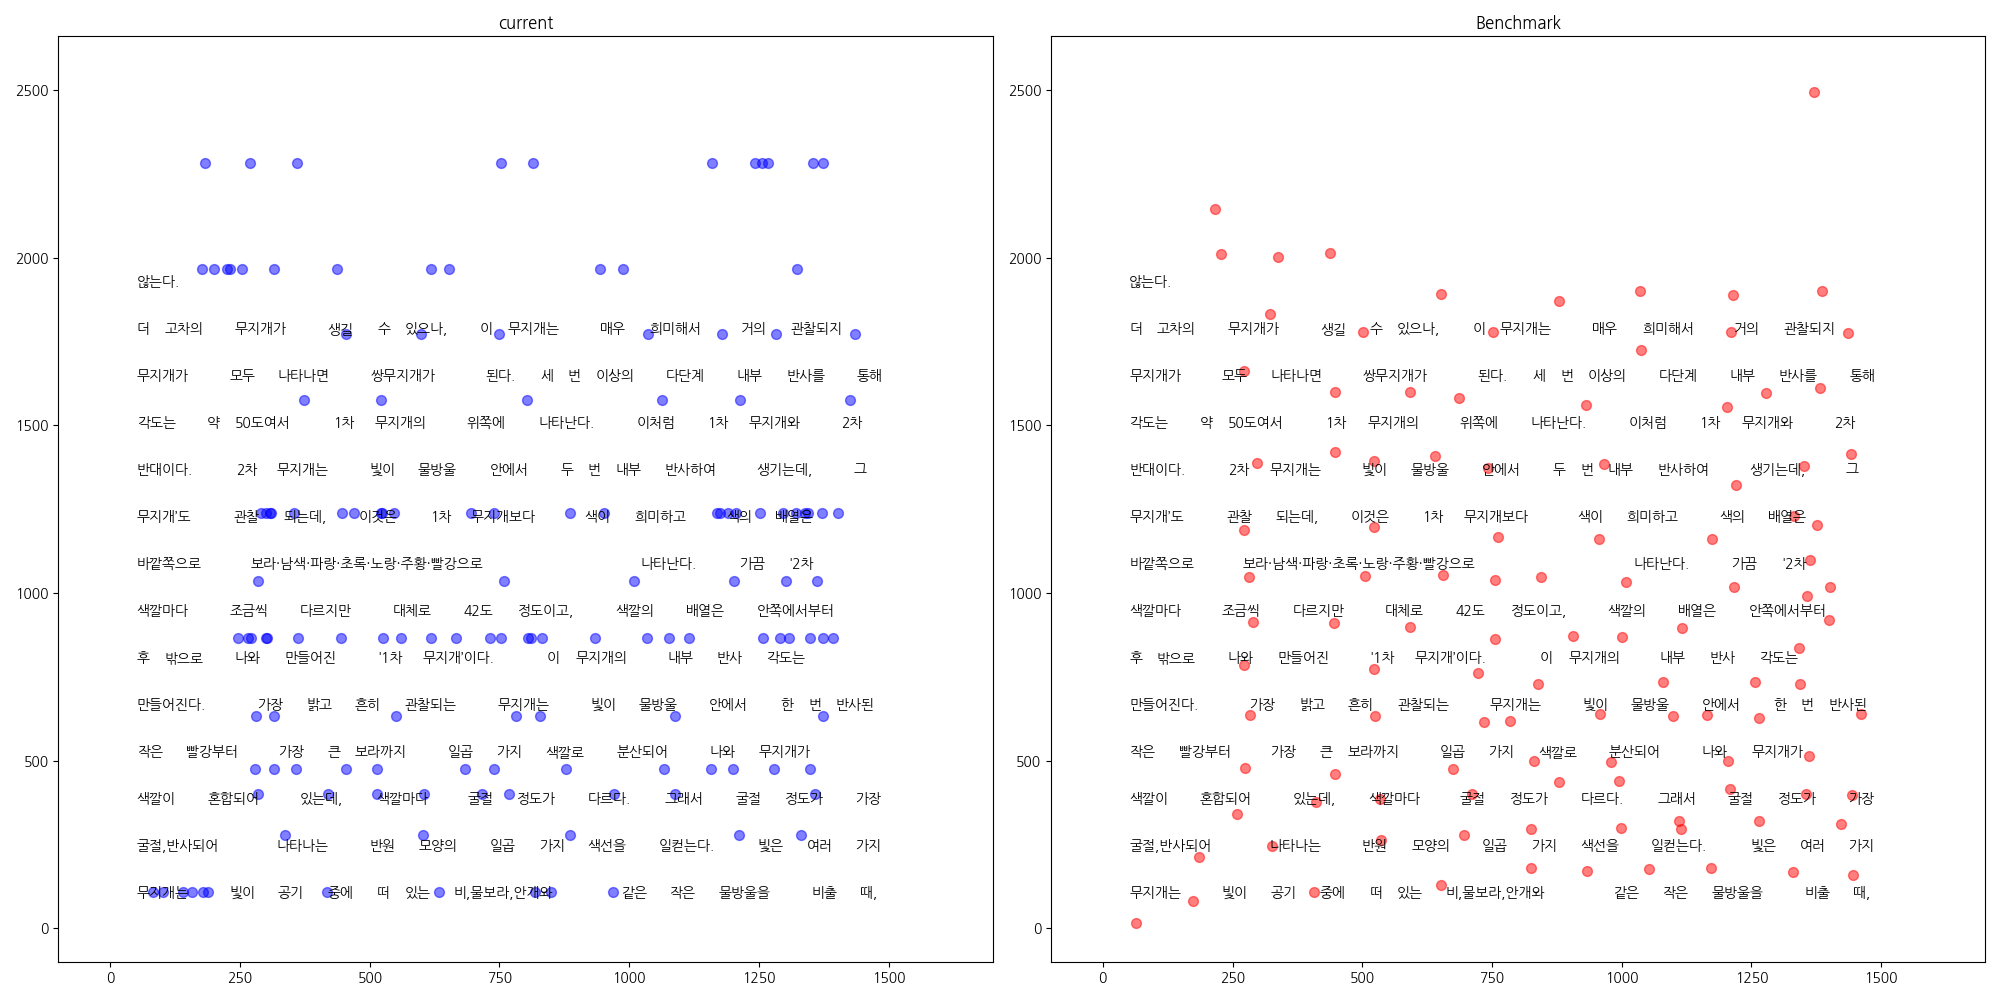
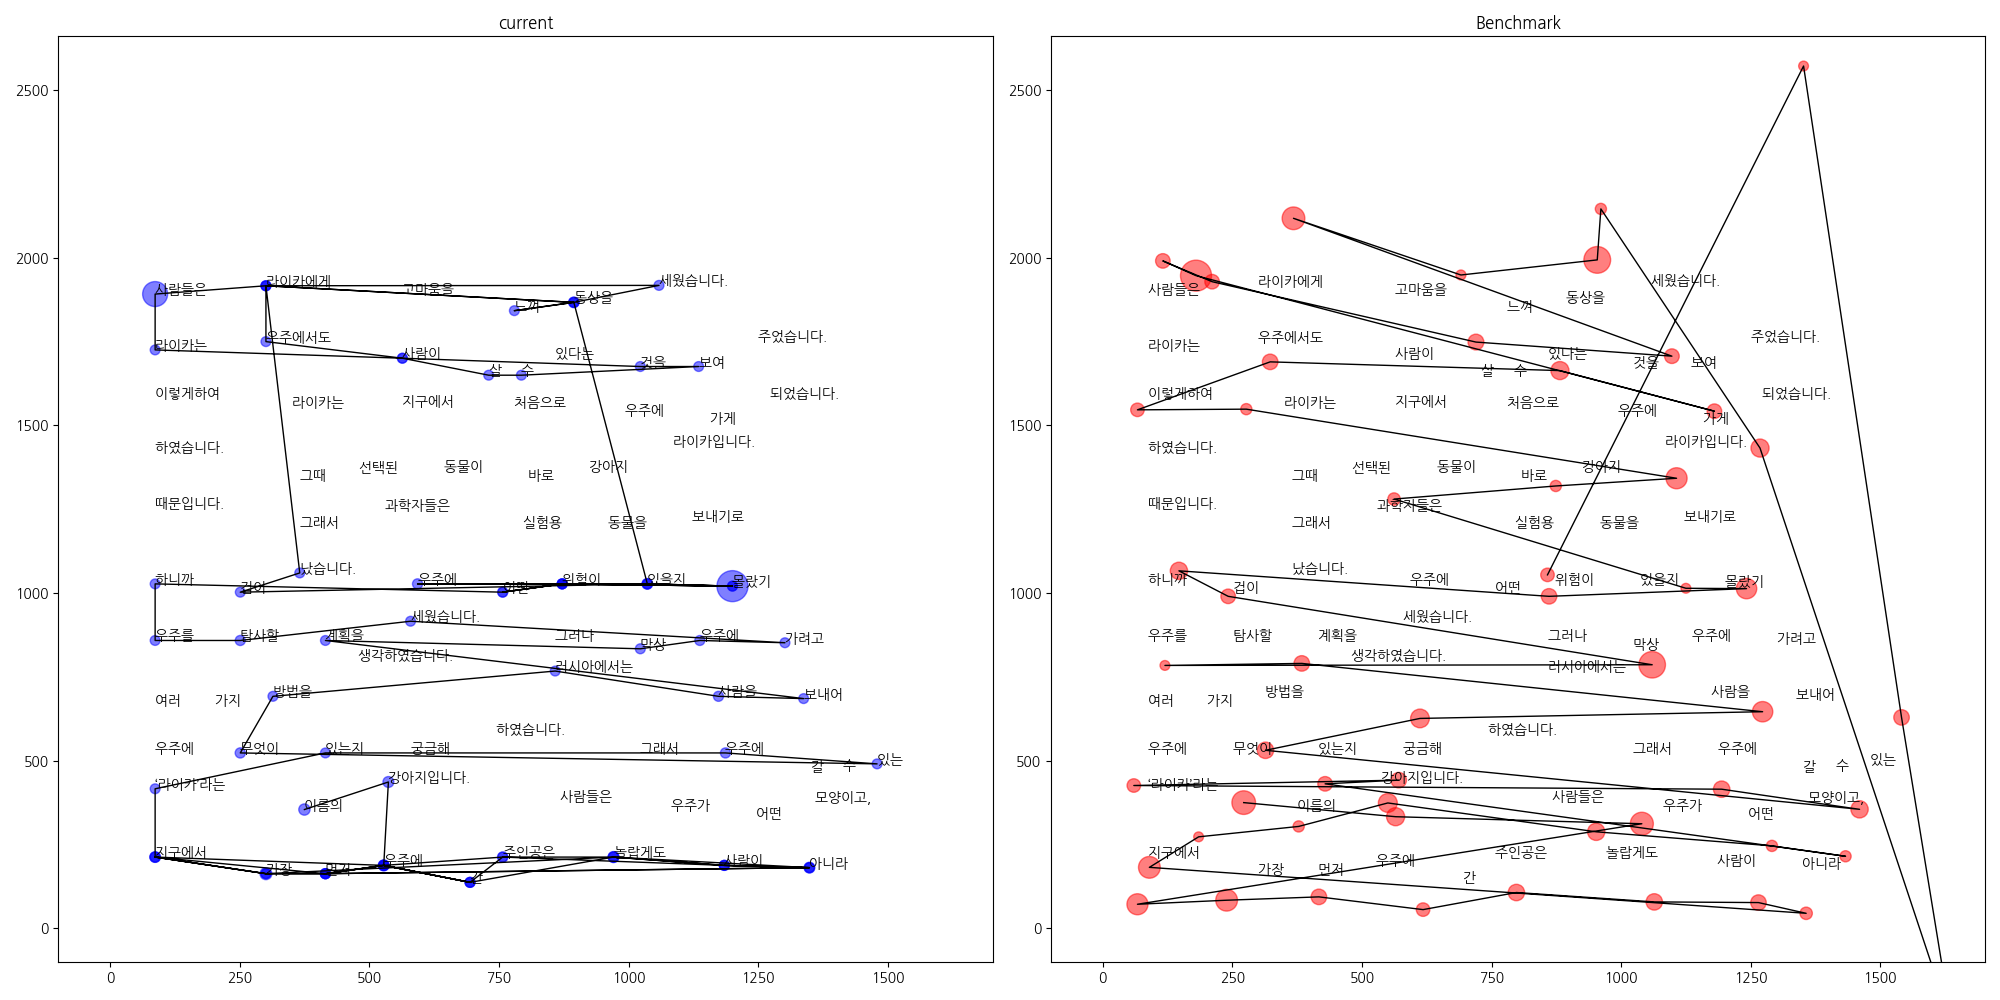
Add prototype of lineAllo

diff --git a/utils/allocation.py b/utils/allocation.py
@@ -26,25 +26,28 @@ from utils.data import CorrectedFixation
 from collections import defaultdict
 import params
 import env
+from sklearn.metrics import pairwise_distances
 
 
-def rf_to_cf(rf):
-    config = {
-        "timestamp": 0,
-        "line": 0,
-        "order": 0,
-        "x": 0,
-        "y": 0
-    }
-    cf = CorrectedFixation(config)
-    return cf
+# ver.0.1: 전체 크기  조정
+def scaling(rfs):
+    coors = [[rf.x, rf.y] for rf in rfs]
+    coors = np.array(coors)
+    x_min, y_min = np.min(coors, axis=0)
+
+    for rf in rfs:
+        rf.x -= x_min
+        rf.y -= y_min
+    return rfs
 
 
+# ver.0.1: backward movement 감지 (hyper parameter issue)
 def classify_backward(rfs: list):
     xs = np.array([rf.x for rf in rfs])
     delta_xs = xs[:-1] - xs[1:]
     delta_xs = np.concatenate((delta_xs, [0]))
 
+    # NOTE: hyper parameter
     bward_thr = params.backward_threshold
     is_bwards = delta_xs < bward_thr
 
@@ -67,18 +70,102 @@ def classify_backward(rfs: list):
     return rfs
 
 
+# ver.0.1: 점들 높이 맞추기
 def flatten_segment(rfs: list):
     segment_group = defaultdict(list)
     for rf in rfs:
         segment_group[rf.segment_id].append(rf)
 
-    for group_id, group in segment_group:
+    for group_id, group in segment_group.items():
         y = [rf.y for rf in group]
         for rf in group:
             rf.y = np.median(y)
     return rfs
 
 
+# ver.0.1: 줄 배정
+def allocate_line_id(rfs, word_aois):
+    line_ys = [None] * (word_aois[-1].line+1)
+    for word_aoi in word_aois:
+        line_ys[word_aoi.line] = word_aoi.wordBox.y
+    line_ys = np.array(line_ys)[:, np.newaxis]
+
+    segment_ys = [None] * (rfs[-1].segment_id+1)
+    for rf in rfs:
+        segment_ys[rf.segment_id] = rf.y
+    segment_ys = np.array(segment_ys)[:, np.newaxis]
+
+    distances = pairwise_distances(segment_ys, line_ys)
+    line_idx = np.argmin(distances, axis=1)
+
+    for rf in rfs:
+        rf.line_id = line_idx[rf.segment_id]
+    return rfs
+
+
+# ver.0.1 : 단어 배정
+def allocate_order_id(rfs, word_aois):
+    line_group = defaultdict(list)
+    for word_aoi in word_aois:
+        line_group[word_aoi.line].append(word_aoi)
+
+    segment_group = defaultdict(list)
+    for rf in rfs:
+        segment_group[rf.segment_id].append(rf)
+
+    for segment_group_id, segment in segment_group.items():
+        line_id = segment[0].line_id
+        line = line_group[line_id]
+        line_x = np.array([word.wordBox.x for word in line])[:, np.newaxis]
+        segment_x = np.array([point.x for point in segment])[:, np.newaxis]
+
+        distances = pairwise_distances(segment_x, line_x)
+        word_idx = np.argmin(distances, axis=1)
+        for rf, word_id in zip(segment, word_idx):
+            rf.order_id = word_id
+
+    if env.LOG_ALL:
+        wrong_cnt = 0
+        total_cnt = 0
+        for segment in segment_group.values():
+            word_idx = [word.order_id for word in segment]
+            word_idx = np.array(word_idx)
+            total_cnt += len(word_idx)
+            wrong_cnt += ((word_idx[1:]-word_idx[:-1]) < 0).sum()
+
+        print(f"잘못된 단어(order id) 배정 횟수: {wrong_cnt}/{total_cnt}")
+    return rfs
+
+
+def _get_inputs(rf, word_aois):
+    for word_aoi in word_aois:
+        if rf.line_id == word_aoi.line and rf.order_id == word_aoi.order:
+            word = word_aoi
+
+    cf_input = {
+        "duration": 30,
+        "timestamp": rf.timestamp,
+        "line": rf.line_id,
+        "order": rf.order_id,
+        "x": word.wordBox.x,
+        "y": word.wordBox.y
+    }
+    return cf_input
+
+
+# ver.0.1: CF로 만들기
+def to_CorrectedFixation(rfs, word_aois):
+    cfs = [CorrectedFixation(_get_inputs(rfs[0], word_aois))]
+    for rf in rfs[1:]:
+        past = cfs[-1]
+        if past.line == rf.line_id and past.order == rf.order_id:
+            past.duration += rf.timestamp - past.timestamp
+        else:
+            cfs.append(CorrectedFixation(_get_inputs(rf, word_aois)))
+    return cfs
+
+
+# Deprecated
 def allocate_line(rfs, word_aoi):
     # Parameter : Backward Threshold
     """
@@ -146,19 +233,21 @@ def allocate_line(rfs, word_aoi):
             }
         except :
             print()
-
         cfs.append(CorrectedFixation(cf_input))
     return cfs
 
 
-def run(rfs, word_aoi):
+def run(rfs, word_aois):
     # 전처리(TBD)
 
     # Raw Fixation --> Corrected Fixation
     rfs = classify_backward(rfs)
+    rfs = scaling(rfs)
     rfs = flatten_segment(rfs)
-    cf = allocate_line(rfs, word_aoi)
 
+    rfs = allocate_line_id(rfs, word_aois)
+    rfs = allocate_order_id(rfs, word_aois)
+    cfs = to_CorrectedFixation(rfs, word_aois)
     # 후처리(TBD)
 
-    return cf
+    return cfs

diff --git a/utils/data.py b/utils/data.py
@@ -1,7 +1,10 @@
 class WordBox:
     def __init__(self, raw: dict):
-        for k, v in raw.items():
-            setattr(self, k, v)
+        self.height = raw["height"]
+        self.width = raw["width"]
+        # ver.0.2 : 단어 중심이 오도록 정렬
+        self.x = raw["x"] + self.height/2
+        self.y = raw["y"] + self.width/2
 
     def __str__(self):
         return f"X{self.x}_Y{self.y}_H{self.height}_W{self.width}"
@@ -10,10 +13,10 @@ class WordBox:
 class WordAoi:
     def __init__(self, raw: dict):
         self.idx_visc = raw['_id']["$oid"]
-        self.line = raw['line']
+        self.line = raw['line'] - 1
         self.word = raw['word']
-        self.order = raw['order']
-        self.wordBox = WordBox(raw['wordBox'])
+        self.order = raw['order'] - 1
+        self.wordBox = WordBox(raw['wordBox'])        
 
     def __str__(self):
         return f"{self.word}_line{self.line}_order{self.order}"
@@ -38,9 +41,10 @@ class RawFixation:
         for k, v in raw.items():
             setattr(self, k, v)
         self.is_backward = None
-        self.segment_id = None
         self.ftype = None
-        self.line_group_id = None
+        self.segment_id = None
+        self.line_id = None
+        self.order_id = None
 
     def __str__(self):
         return f"Timestamp{self.timestamp}_X{self.x}_Y{self.y}"
@@ -48,8 +52,12 @@ class RawFixation:
 
 class CorrectedFixation:
     def __init__(self, raw: dict):
-        for k, v in raw.items():
-            setattr(self, k, v)
+        self.timestamp = raw['timestamp']
+        self.line = raw['line']
+        self.order = raw['order']
+        self.duration = raw['duration']
+        self.x = raw['x']
+        self.y = raw['y']
 
     def __str__(self):
         return f"Timestamp{self.timestamp}_line{self.line}_order{self.order}"

diff --git a/main_m2.py b/main_m2.py
@@ -1,5 +1,6 @@
 import os
 import argparse
+import numpy as np
 import matplotlib.pyplot as plt
 
 from copy import deepcopy
@@ -7,7 +8,7 @@ from copy import deepcopy
 import env
 # from utils.metric import get_lineAllo_dashboard
 from utils.data_handler import DataHandler
-from utils.visual import set_scale, plot_points, plot_text
+from utils.visual import set_scale, plot_points, plot_text, plot_lines
 
 
 parser = argparse.ArgumentParser(
@@ -22,12 +23,34 @@ parser.add_argument("--is_sample",
 args = parser.parse_args()
 
 
+def duration_scaling(dur: list, ref):
+    dur = np.array(dur)
+    dur = (dur - dur.min()) / (dur.max() - dur.min()) * 9 + 1
+    return dur * ref
+
+
+def word_translation(words: list):
+    words_new = deepcopy(words)
+    for word_new, word in zip(words_new, words):
+        word_new.wordBox.x -= word.wordBox.width/2
+        word_new.wordBox.y -= word.wordBox.height/2
+    return words_new
+
+
+# ver.0.1 : 점 크기 = duration
 def compare_points(point_cur, point_bm, word_aoi, resol):
+    cur_dur = [cur.duration for cur in point_cur]
+    cur_dur = duration_scaling(cur_dur, 50)
+    bm_dur = [bm.duration for bm in point_bm]
+    bm_dur = duration_scaling(bm_dur, 50)
     fig, ax = plt.subplots(1, 2, figsize=(20, 10))
     set_scale(resol, ax)
-    plot_points(ax[0], point_cur, "current", c="blue", s=50, alpha=0.5)
-    plot_points(ax[1], point_bm, "Benchmark", c="red", s=50, alpha=0.5)
+    plot_points(ax[0], point_cur, "current", c="blue", s=cur_dur, alpha=0.5)
+    plot_lines(ax[0], point_cur)
+    plot_points(ax[1], point_bm, "Benchmark", c="red", s=bm_dur, alpha=0.5)
+    plot_lines(ax[1], point_bm)
 
+    # word_aoi = word_translation(word_aoi)
     plot_text(ax[0], word_aoi)
     plot_text(ax[1], word_aoi)
     plt.show()

diff --git a/utils/visual.py b/utils/visual.py
@@ -9,6 +9,13 @@ def plot_points(ax, points, title="", c="black", s=10, alpha=0.5):
     ax.set_title(title)
 
 
+def plot_lines(ax, points, c="black", lw=1):
+    x = [i.x for i in points if i.x]
+    y = [i.y for i in points]
+
+    ax.plot(x, y, c=c, lw=lw)
+
+
 def set_scale(resol, ax, pad=100):
     w = resol['width']
     h = resol['height']
